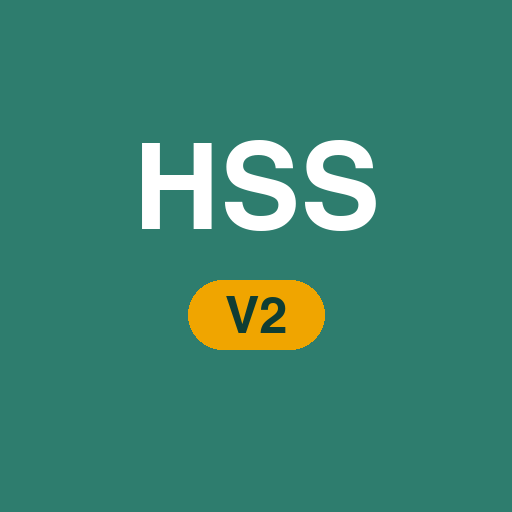
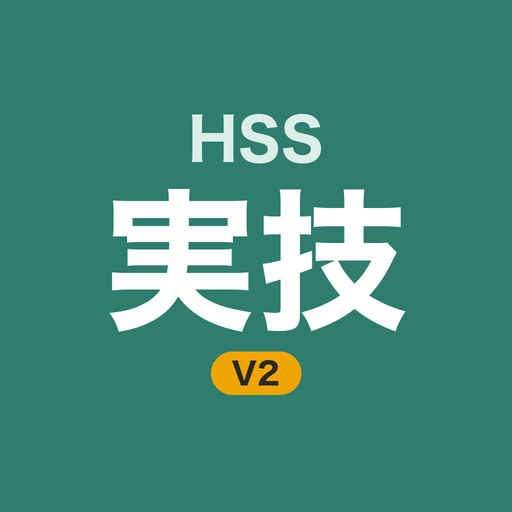
feat(pwa): ホーム画面のアイコンを「実技」表記に変更・名前を「実技試験」に統一・v43

Changed region(s): [[0.2188, 0.2188, 0.8125, 0.7812]]

diff --git a/sw.js b/sw.js
@@ -6,7 +6,7 @@
    新しい版は CACHE の版上げ（＋ js/config.js の APP_VER も同じ値に）で取り込む。
    キャッシュに無いものだけネットワークへ（3秒で打ち切り）。ページ遷移（navigate）だけ index.html にフォールバックし、
    スクリプト・CSS 等はエラーを返す（欠けたファイル名がコンソールに出る。HTML を JS として読ませない＝W16-5） */
-const CACHE = 'jitsugi-v2-v42';
+const CACHE = 'jitsugi-v2-v43';
 const ASSETS = [
   './', './index.html', './styles.css', './v2.css', './works-v2.js',
   './tenant-config.js', './js/config.js', './js/util.js', './js/i18n.js', './js/data.js', './js/store.js', './js/person.js', './js/contract.js', './js/ui.js', './js/sync.js', './js/app.js',

diff --git a/js/config.js b/js/config.js
@@ -3,4 +3,4 @@
 const SHEET_URL=(typeof window!=='undefined'&&window.TENANT&&window.TENANT.sheetUrl)||'';   // 送信先は tenant-config.js から来る（農場別ビルドではその農場の GAS）
 /* アプリ本体の版。sw.js の CACHE と必ず同じ値にする（smoke.js が突き合わせる）。
    設定タブに「APP …」として出る＝本部が評価者に「設定の版を見て」と頼めば、その端末で動いている版が分かる */
-const APP_VER='jitsugi-v2-v42';
+const APP_VER='jitsugi-v2-v43';

diff --git a/index.html b/index.html
@@ -9,7 +9,7 @@
 <meta name="theme-color" content="#0f5c4a">
 <meta name="apple-mobile-web-app-capable" content="yes">
 <meta name="apple-mobile-web-app-status-bar-style" content="black-translucent">
-<meta name="apple-mobile-web-app-title" content="実技試験V2">
+<meta name="apple-mobile-web-app-title" content="実技試験">
 <link rel="manifest" href="manifest.json">
 <link rel="icon" href="icon-192.png">
 <link rel="apple-touch-icon" href="icon-192.png">
